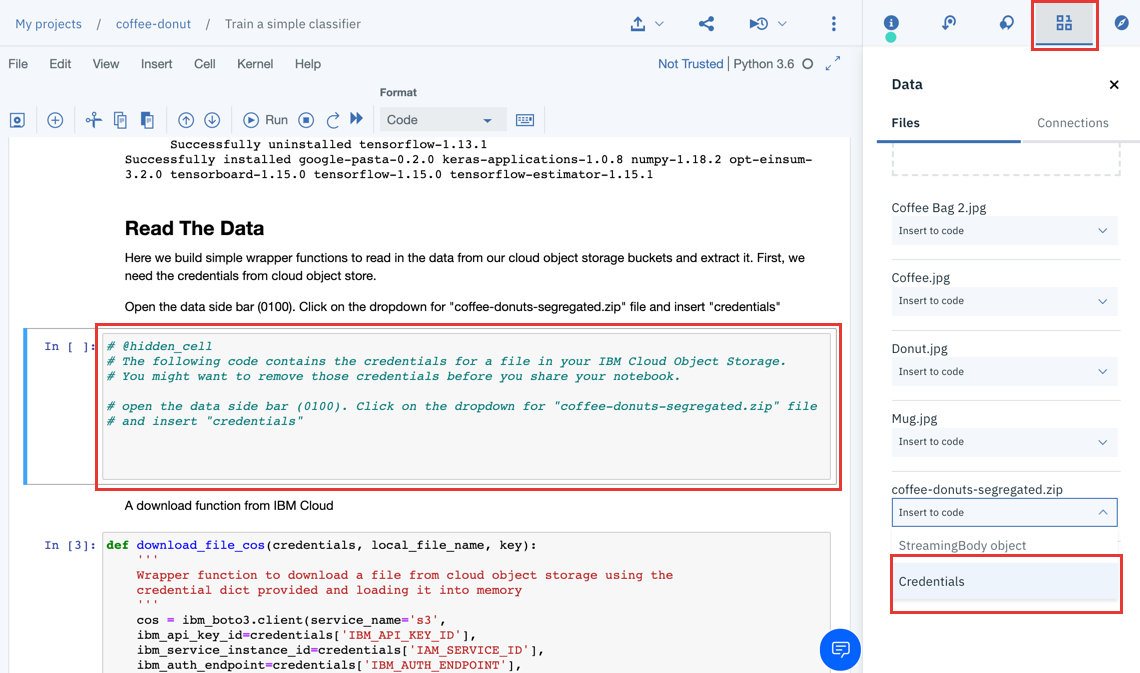
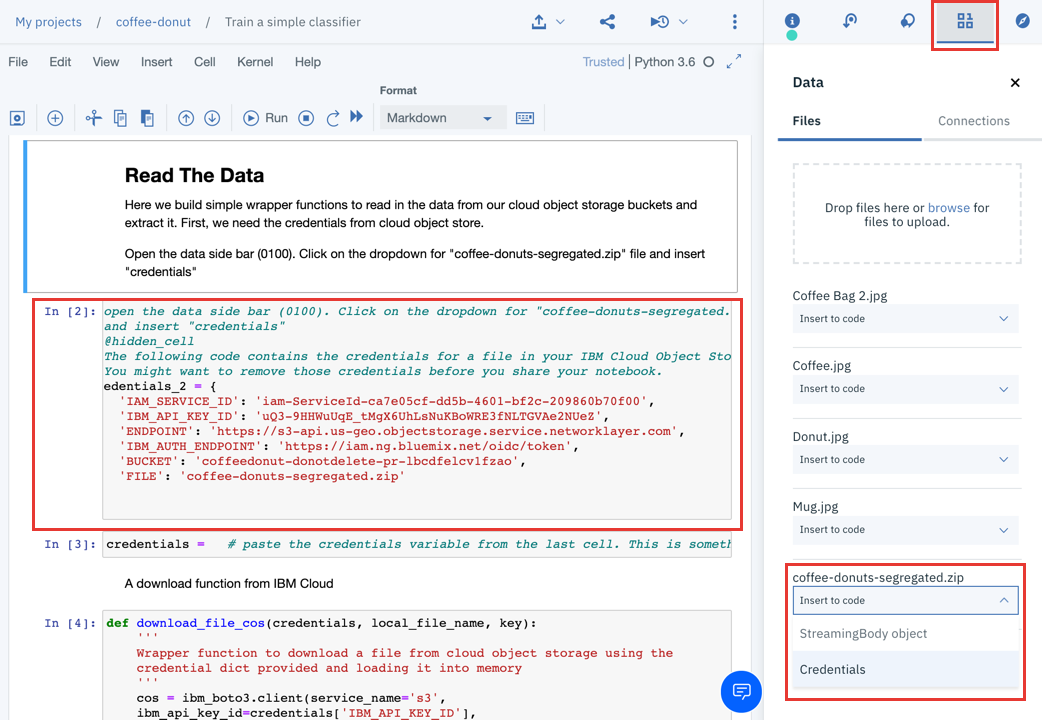
updated readme for credentials

diff --git a/README.md b/README.md
@@ -95,10 +95,11 @@ assets
 
 ## Additional clarifications for the notebook
 
-1. Adding credentials to the notebook
+1. In order to use the data from the cloud object store in the notebook, use the `0100` data tab on the right side as show in the image below. You can use `insert credentials` link from the `coffee-donuts-segregated.zip` asset. This will insert some code in the notebook that provide you access to the credentials as a dictionary.
     
     ![](images/notebook-cos-credentials-insert.png)
-
-1. Using credentials in the notebook. Make sure you change the variable name to what was assigned in the last step when you added credentials to the notebook
     
+
+2. The credentials generated in the cell above will be stored in  a variable with a name like `credentials_number`. Assign it to `credentials` variable in the next cell. This `credentials` variable will be used in the rest of the notebook.
+
     ![](images/notebook-cos-credentials-variable.png)
